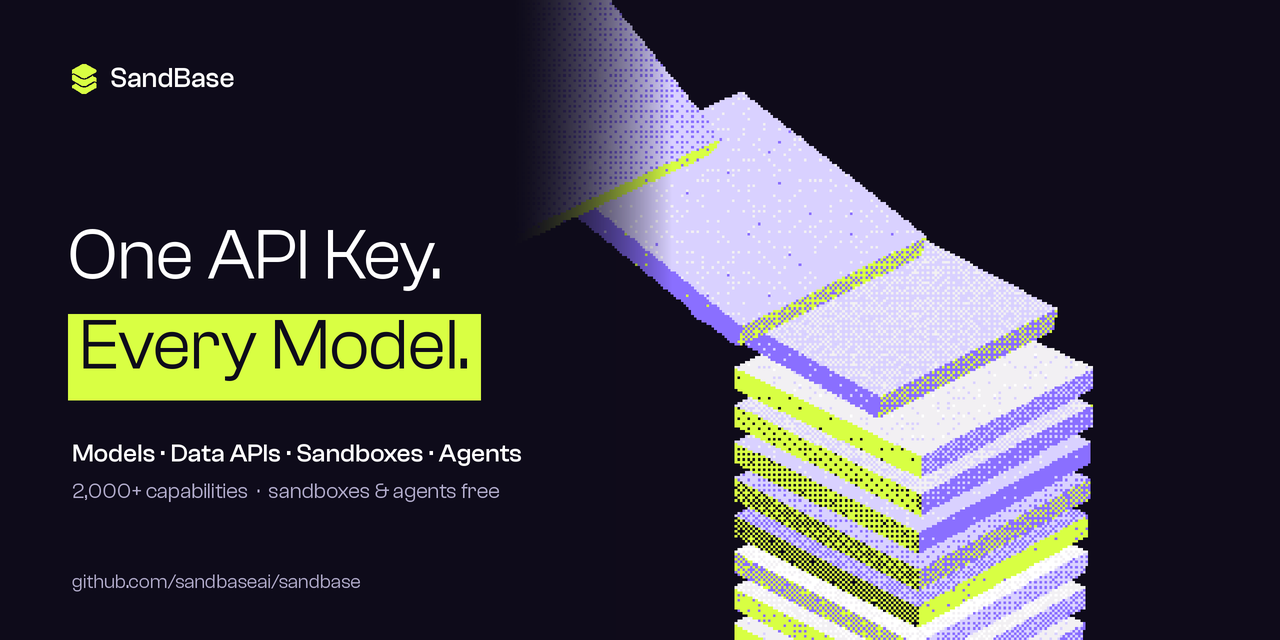
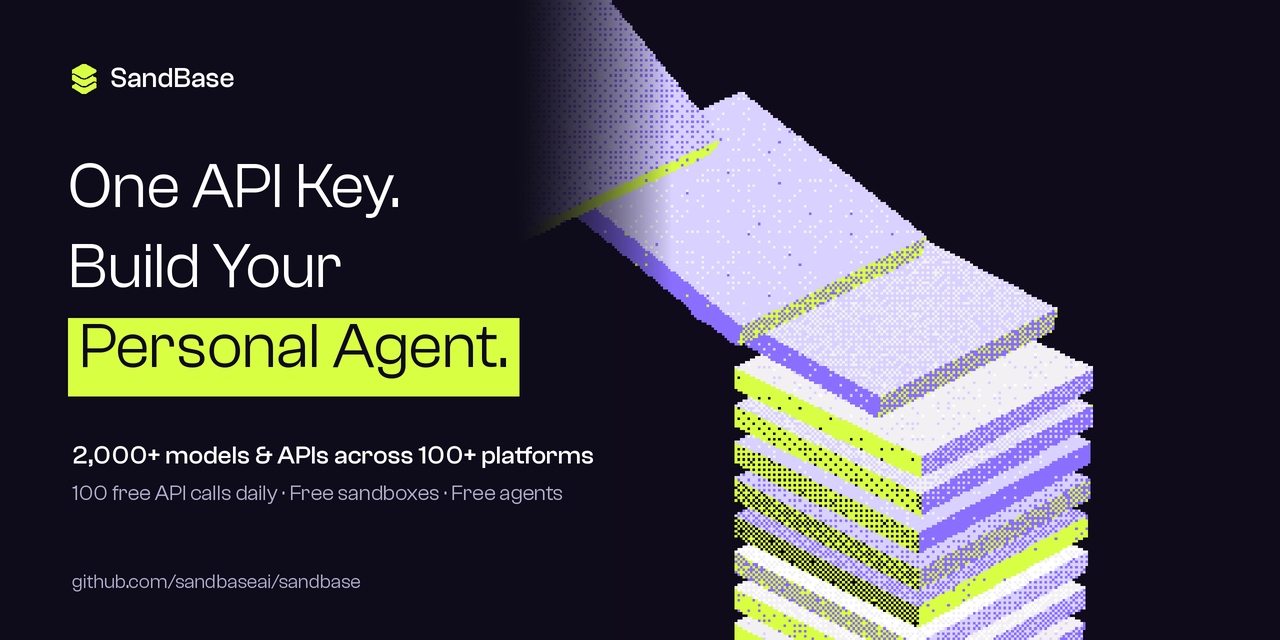
docs: lead with building a personal agent
Matches sandbase.ai: 'One API Key. Build Your Personal Agent.' The README opens
with a tested one-call agent example that finds and calls SandBase APIs on its own,
then what the agent gets (toolkit, sandbox, runtime), then calling the pieces
directly. Social preview, llms.txt and Chinese README updated to match.

Changed region(s): [[0.0312, 0.25, 0.4062, 0.625], [0.0312, 0.6875, 0.4688, 0.7812]]

diff --git a/scripts/make_social_preview.py b/scripts/make_social_preview.py
@@ -113,16 +113,17 @@ def main():
     draw_mark(img, mark, m, 64 * SS, 30 * SS)
     d.text((m + 38 * SS, 62 * SS), "SandBase", font=font(28, "500"), fill=WHITE)
 
-    h1 = font(72)
-    d.text((m - 4 * SS, 214 * SS), "One API Key.", font=h1, fill=WHITE)
-    word = "Every Model."
+    h1 = font(64)
+    d.text((m - 4 * SS, 150 * SS), "One API Key.", font=h1, fill=WHITE)
+    d.text((m - 4 * SS, 230 * SS), "Build Your", font=h1, fill=WHITE)
+    word = "Personal Agent."
     bbox = d.textbbox((0, 0), word, font=h1)
-    x0, y0 = m - 4 * SS, 304 * SS
-    d.rectangle([x0, y0 + 10 * SS, x0 + bbox[2] + 22 * SS, y0 + 96 * SS], fill=LIME)
+    x0, y0 = m - 4 * SS, 310 * SS
+    d.rectangle([x0, y0 + 8 * SS, x0 + bbox[2] + 22 * SS, y0 + 86 * SS], fill=LIME)
     d.text((x0 + 11 * SS, y0), word, font=h1, fill=BG)
 
-    d.text((m, 438 * SS), "Models · Data APIs · Sandboxes · Agents", font=font(26, "500"), fill=WHITE)
-    d.text((m, 478 * SS), "2,000+ capabilities  ·  sandboxes & agents free", font=font(22), fill=MUTED)
+    d.text((m, 440 * SS), "2,000+ models & APIs across 100+ platforms", font=font(26, "500"), fill=WHITE)
+    d.text((m, 480 * SS), "100 free API calls daily · Free sandboxes · Free agents", font=font(22), fill=MUTED)
     d.text((m, 570 * SS), "github.com/sandbaseai/sandbase", font=font(20), fill=MUTED)
 
     img = img.resize((W, H), Image.LANCZOS)

diff --git a/scripts/build_catalog.py b/scripts/build_catalog.py
@@ -831,7 +831,7 @@ def write_llms_txt(index: dict) -> None:
     lines = [
         "# SandBase",
         "",
-        "> AI models, data APIs, sandboxes and agents behind one API key, pay as you go. "
+        "> One API key to build your personal agent: AI models, data APIs, sandboxes and agents, pay as you go. "
         f"{nice(index['count'], True)} capabilities ({nice(by_type.get('api', 0))} data APIs, "
         f"{nice(sum(n for t, n in by_type.items() if t != 'api'))} AI models), 100 free data-API calls a day, "
         "free sandboxes (E2B-compatible) and free Agents (OpenAI Agents API-compatible).",

diff --git a/README.md b/README.md
@@ -1,10 +1,8 @@
 <p align="center">
-  <a href="https://www.sandbase.ai"><img src=".github/social-preview.png" alt="SandBase: one API key for models, data APIs, sandboxes and agents" width="100%"></a>
+  <a href="https://www.sandbase.ai"><img src=".github/social-preview.png" alt="SandBase: one API key, build your personal agent" width="100%"></a>
 </p>
 
-<p align="center">
-  <b>AI models, data APIs, sandboxes and agents. One key. Pay as you go.</b>
-</p>
+<h3 align="center">One API Key. Build Your Personal Agent.</h3>
 
 <p align="center">
   <!-- counts:en --><b>2,000+ models &amp; APIs</b> · 400+ AI models · 1,700+ data APIs from 100+ platforms<br><b>100 free API calls / day</b> · <b>Free sandboxes</b> · <b>Free agents</b><!-- /counts:en -->
@@ -27,61 +25,84 @@
 
 ---
 
-## Why SandBase
+## Your personal agent in one call
 
-Most platforms cover one layer: an LLM gateway, a media API, a sandbox, or a tool catalog. SandBase covers all four with **one key, one balance and one bill**, and the layers work together. Agents call any model or API in the catalog, and their code runs in SandBase sandboxes.
+Create an agent, give it a job, get the answer. Every agent can find and call any of the 2,000+ models and APIs on SandBase on its own, and it works in its own sandbox. Agents and sandboxes are free. You pay only for the models and APIs your agent uses.
 
-| | What you get | Price | Works with |
-|---|---|---|---|
-| 🧠 **Models** | LLM, image, video, audio, embedding | Pay per call or per token | OpenAI, Anthropic and Gemini SDKs |
-| 🔌 **Data APIs** | Social, search, SEO, e-commerce, finance and more | **100 free calls / day**, then pay per call | One `POST /v1/run` for every API |
-| 📦 **Sandboxes** | Isolated machines for code, commands and files | **Free** | The official E2B SDK |
-| 🤖 **Agents** | Agents, Sessions, HTTP Services, Schedules, Skills | **Free** (you pay for the models and APIs they call) | The official OpenAI Agents API |
+```python
+# pip install "git+https://github.com/sandbaseai/sandbase#subdirectory=sdk/python"
+from sandbase import SandBase
+
+sb = SandBase()  # reads SANDBASE_API_KEY
+
+agent = sb.create_agent(
+    "deepseek/deepseek-v4-flash",
+    instructions="You are my research agent. Use SandBase tools for live data.",
+)
+
+reply = sb.run_agent(agent["id"], "What are people on X saying about AI agents today?")
+print(reply["output"])
+```
+
+In our test run the agent searched for an X API, read its schema and price, called it, and answered with three real posts and their links. It took 45 seconds and needed no setup beyond the key.
+
+Keep the conversation going with `sb.send(reply["session_id"], "...")`. When the agent is ready, deploy it as an [HTTP Service](https://www.sandbase.ai/docs/agents/services) (`sb.invoke_service(...)`) or put it on a [Schedule](https://www.sandbase.ai/docs/agents/schedules). Agents follow the OpenAI Agents API, so the official OpenAI SDK works as well (`client.beta.agents`, [example](examples/agents/python/openai_agents.py)). TypeScript and Go have the same helpers: `runAgent` and `RunAgent`.
+
+## What your agent gets
+
+| | | Price |
+|---|---|---|
+| 🧰 **A toolkit** | 2,000+ models and APIs: LLMs, image, video and audio models, plus social, search, SEO, e-commerce and finance data from 100+ platforms | Pay as you go · **100 free API calls / day** |
+| 📦 **A place to work** | An isolated sandbox for code, commands and files, compatible with the E2B SDK | **Free** |
+| 🤖 **A job** | Sessions, HTTP Services and Schedules on the OpenAgentCore runtime, called through the OpenAI Agents API | **Free** |
 
 ## Pick your path
 
 | You are | Start here |
 |---|---|
-| **Building an app** | [Quickstart](#quickstart) and the [Python](sdk/python) · [TypeScript](sdk/typescript) · [Go](sdk/go) clients |
-| **Running a gateway or relay** (new-api, one-api, LiteLLM) | [Relay guide](docs/guides/relay-platforms.md) and ready-to-import [price files](exports/) |
-| **Using an AI coding agent** (Claude Code, Codex, Cursor) | [SandBase CLI / MCP](https://github.com/sandbaseai/cli) |
+| **Building a personal agent** | [The example above](#your-personal-agent-in-one-call) and the [Python](sdk/python) · [TypeScript](sdk/typescript) · [Go](sdk/go) clients |
+| **Using Claude Code, Codex or Cursor** | Paste into your agent: `npm install -g @sandbaseai/cli && sandbase connect` ([CLI / MCP](https://github.com/sandbaseai/cli)) |
+| **Calling a model or API from your app** | [Call the pieces directly](#call-the-pieces-directly) |
+| **Running a gateway or relay** (new-api, one-api, LiteLLM) | [Relay guide](docs/guides/relay-platforms.md) and [price files](exports/) |
 | **An API provider** | [Add your API](integrations/README.md) with a pull request |
 
-## Quickstart
+## Call the pieces directly
 
-Get a key at [sandbase.ai/console](https://www.sandbase.ai/console), then call any model or API:
+Everything your agent uses is also available to your own code with the same key.
+
+**Any model or API.** Every capability takes the same request: `model` plus its own fields.
 
 ```bash
-export SANDBASE_API_KEY=sk-...
-
 curl https://api.sandbase.ai/v1/run \
   -H "Authorization: Bearer $SANDBASE_API_KEY" \
   -H "Content-Type: application/json" \
   -d '{"model": "exa/search", "query": "AI agents"}'
 ```
 
-Every capability takes the same request: `model` plus its own fields. In the clients, `run()` returns the finished result for sync and async calls alike:
-
-Install the Python client:
-
-```bash
-pip install "git+https://github.com/sandbaseai/sandbase#subdirectory=sdk/python"
-```
-
 ```python
-from sandbase import SandBase
+sb.run("exa/search", query="AI agents")  # a data API (sync)
 
-sb = SandBase()
-
-# a data API (sync)
-sb.run("exa/search", query="AI agents")
-
-# a video model (async, run() waits)
-sb.run(
+sb.run(                                  # a video model (async, run() waits)
     "bytedance/seedance/2.5/text-to-video",
     prompt="a cat surfing",
     duration=4,
 )
+```
+
+**A sandbox.** Keep the official E2B SDK and point it at SandBase:
+
+```python
+# pip install e2b
+import os
+from e2b import Sandbox
+
+os.environ["E2B_API_KEY"] = os.environ["SANDBASE_API_KEY"]
+os.environ["E2B_API_URL"] = "https://sandbox.sandbase.ai"
+os.environ["E2B_DOMAIN"] = "sandbox.sandbase.ai"
+
+sbx = Sandbox.create("tpl_...", timeout=120)  # template ids: catalog/sandbox.json
+print(sbx.commands.run("python3 -c 'print(40 + 2)'").stdout)
+sbx.kill()
 ```
 
 <details>
@@ -152,48 +173,6 @@ Open [`examples/http/sandbase.http`](examples/http/sandbase.http) and click *Sen
 <!-- /inside:en -->
 
 Every entry has a page with its schema, price and code in four languages. See [all models &amp; APIs](docs/INDEX.md) or [browse by platform](docs/platforms/README.md): [TikTok](docs/platforms/tiktok.md) · [Instagram](docs/platforms/instagram.md) · [YouTube](docs/platforms/youtube.md) · [LinkedIn](docs/platforms/linkedin.md) · [Reddit](docs/platforms/reddit.md) · [Douyin](docs/platforms/douyin.md) · [Xiaohongshu](docs/platforms/xiaohongshu.md) · [DataForSEO](docs/platforms/dataforseo.md) · [Polymarket](docs/platforms/polymarket.md) · [OpenAI](docs/platforms/openai.md) · [Google](docs/platforms/google.md) · [Kling](docs/platforms/kwaivgi.md)
-
-## Sandboxes
-
-Sandboxes are free and speak the E2B protocol. Keep the official E2B SDK and point it at SandBase:
-
-```python
-# pip install e2b
-import os
-from e2b import Sandbox
-
-os.environ["E2B_API_KEY"] = os.environ["SANDBASE_API_KEY"]
-os.environ["E2B_API_URL"] = "https://sandbox.sandbase.ai"
-os.environ["E2B_DOMAIN"] = "sandbox.sandbase.ai"
-
-# template ids: catalog/sandbox.json
-sbx = Sandbox.create("tpl_...", timeout=120)
-print(sbx.commands.run("python3 -c 'print(40 + 2)'").stdout)
-sbx.kill()
-```
-
-Full examples: [Python](examples/sandbox/python/hello_sandbox.py) · [TypeScript](examples/sandbox/typescript/hello-sandbox.mjs)
-
-## Agents
-
-Agents are free to create and run. You pay only for the models and APIs they call.
-
-The quickest path is the client in this repo. `run_agent()` creates a Session and waits for the answer:
-
-```python
-agent = sb.create_agent(
-    "deepseek/deepseek-v4-flash",
-    instructions="Answer in one short sentence.",
-)
-
-reply = sb.run_agent(agent["id"], "What is 2+2?")
-print(reply["output"])  # 2 + 2 = 4.
-
-# a follow-up in the same Session
-sb.send(reply["session_id"], "And times 10?")
-```
-
-SandBase implements the OpenAI Agents API, so you can also use the official OpenAI SDK (`client.beta.agents`) with `base_url="https://api.sandbase.ai/v1"`. See the [streaming example](examples/agents/python/openai_agents.py). TypeScript and Go have the same helpers: `runAgent` and `RunAgent`.
 
 ## Pricing
 

diff --git a/README.zh-CN.md b/README.zh-CN.md
@@ -3,7 +3,7 @@
 </p>
 
 <p align="center">
-  <b>AI 模型、数据 API、沙箱和 Agent。一个 Key，按量付费。</b>
+  <b>一个 API Key，打造你的个人 Agent。</b>
 </p>
 
 <p align="center">
@@ -20,22 +20,41 @@
 
 ---
 
-## 为什么选 SandBase
+## 一次调用，拥有你的个人 Agent
 
-大多数平台只做其中一层：LLM 网关、媒体 API、沙箱，或者工具目录。SandBase 把四层都放在**同一个 key、同一份余额、同一张账单**下，而且四层可以互相调用：Agent 能直接调用目录里的模型和 API，代码在 SandBase 的沙箱里运行。
+创建一个 Agent，交给它任务，拿到结果。每个 Agent 都能自己找到并调用 SandBase 上的 2,000+ 模型和 API，在自己的沙箱里干活。Agent 和沙箱免费，只为 Agent 用到的模型和 API 付费。
 
-| | 内容 | 价格 | 兼容 |
-|---|---|---|---|
-| 🧠 **模型** | LLM、图像、视频、音频、Embedding | 按次或按 token 计费 | OpenAI、Anthropic、Gemini SDK |
-| 🔌 **数据 API** | 社媒、搜索、SEO、电商、金融等 | **每天 100 次免费**，超出后按次计费 | 所有 API 统一用 `POST /v1/run` |
-| 📦 **沙箱** | 隔离环境，可以执行代码、运行命令、读写文件 | **免费** | E2B 官方 SDK |
-| 🤖 **Agent** | Agent、Session、HTTP Service、定时任务、Skill | **免费**（Agent 调用的模型和 API 照常计费） | OpenAI Agents API |
+```python
+# pip install "git+https://github.com/sandbaseai/sandbase#subdirectory=sdk/python"
+from sandbase import SandBase
+
+sb = SandBase()  # 读取 SANDBASE_API_KEY
+
+agent = sb.create_agent(
+    "deepseek/deepseek-v4-flash",
+    instructions="你是我的研究助理，需要实时数据时使用 SandBase 工具。",
+)
+
+reply = sb.run_agent(agent["id"], "今天 X 上大家怎么讨论 AI Agent？")
+print(reply["output"])
+```
+
+实测中，Agent 自己找到了 X 的 API，读取了 schema 和价格，调用后返回三条真实帖子和链接。全程 45 秒，除了 key 不需要任何配置。
+
+用 `sb.send(reply["session_id"], "...")` 继续对话。调好之后可以部署成 HTTP Service 或定时任务。Agent 兼容 OpenAI Agents API，也可以直接用 OpenAI 官方 SDK。
+
+| | 你的 Agent 得到什么 | 价格 |
+|---|---|---|
+| 🧰 **工具箱** | 2,000+ 模型和 API：LLM、图像、视频、音频，以及 100+ 平台的社媒、搜索、SEO、电商、金融数据 | 按量付费 · **每天 100 次免费 API 调用** |
+| 📦 **工作环境** | 隔离沙箱，可以运行代码、执行命令、读写文件，兼容 E2B SDK | **免费** |
+| 🤖 **任务** | 基于 OpenAgentCore 运行时的 Session、HTTP Service、定时任务，通过 OpenAI Agents API 调用 | **免费** |
 
 ## 选择你的场景
 
 | 你是 | 从这里开始 |
 |---|---|
-| **开发应用** | 下面的「快速开始」，以及 [Python](sdk/python) · [TypeScript](sdk/typescript) · [Go](sdk/go) 客户端 |
+| **打造个人 Agent** | 上面的示例 |
+| **在应用里直接调用模型或 API** | 下面的「快速开始」，以及 [Python](sdk/python) · [TypeScript](sdk/typescript) · [Go](sdk/go) 客户端 |
 | **运营中转平台或网关**（new-api、one-api、LiteLLM） | [中转接入指南](docs/guides/relay-platforms.md)（英文）和可直接导入的[价格文件](exports/) |
 | **使用 AI 编程工具**（Claude Code、Codex、Cursor） | [SandBase CLI / MCP](https://github.com/sandbaseai/cli) |
 | **API 提供方** | 通过 PR [接入你的 API](integrations/README.md) |
